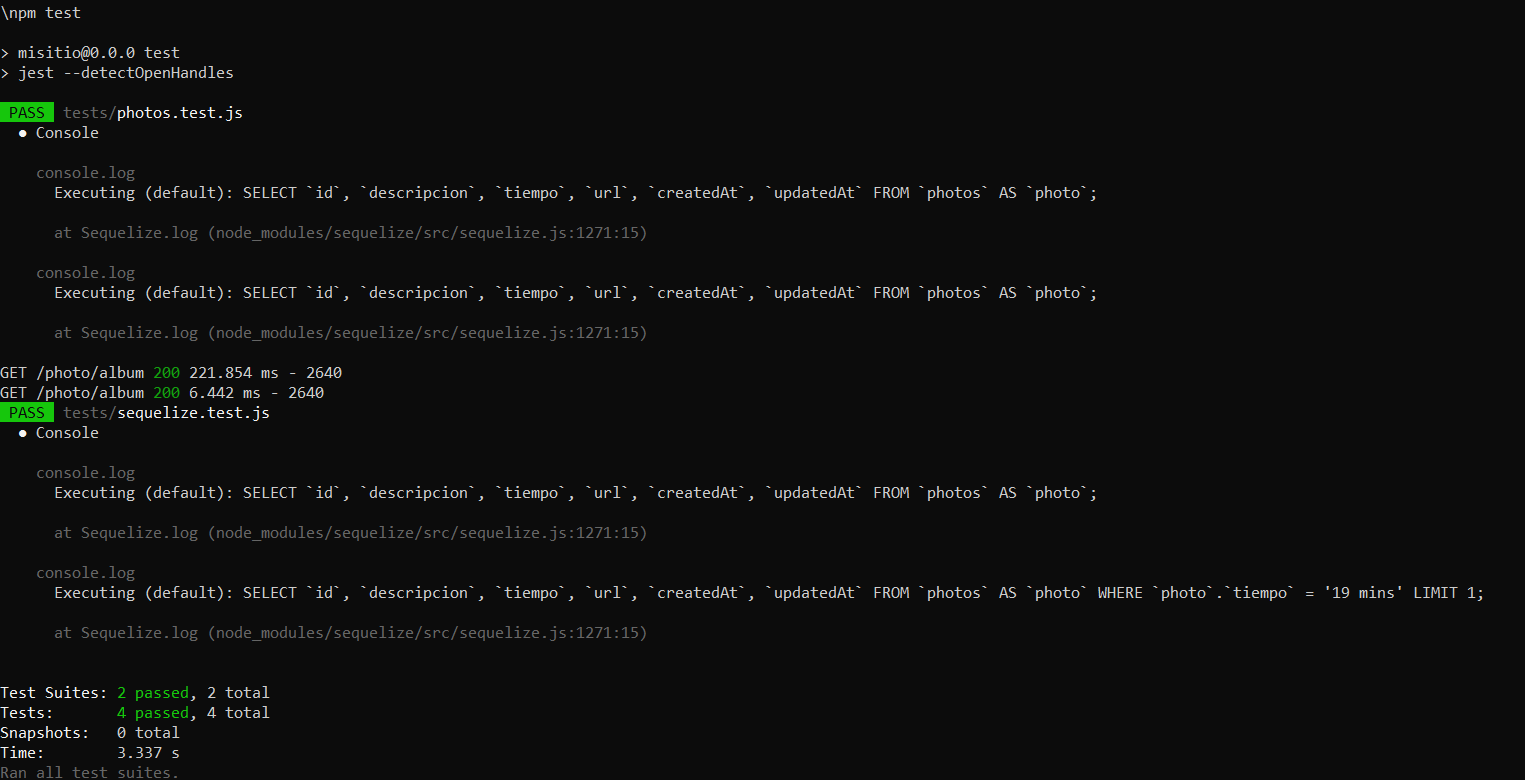
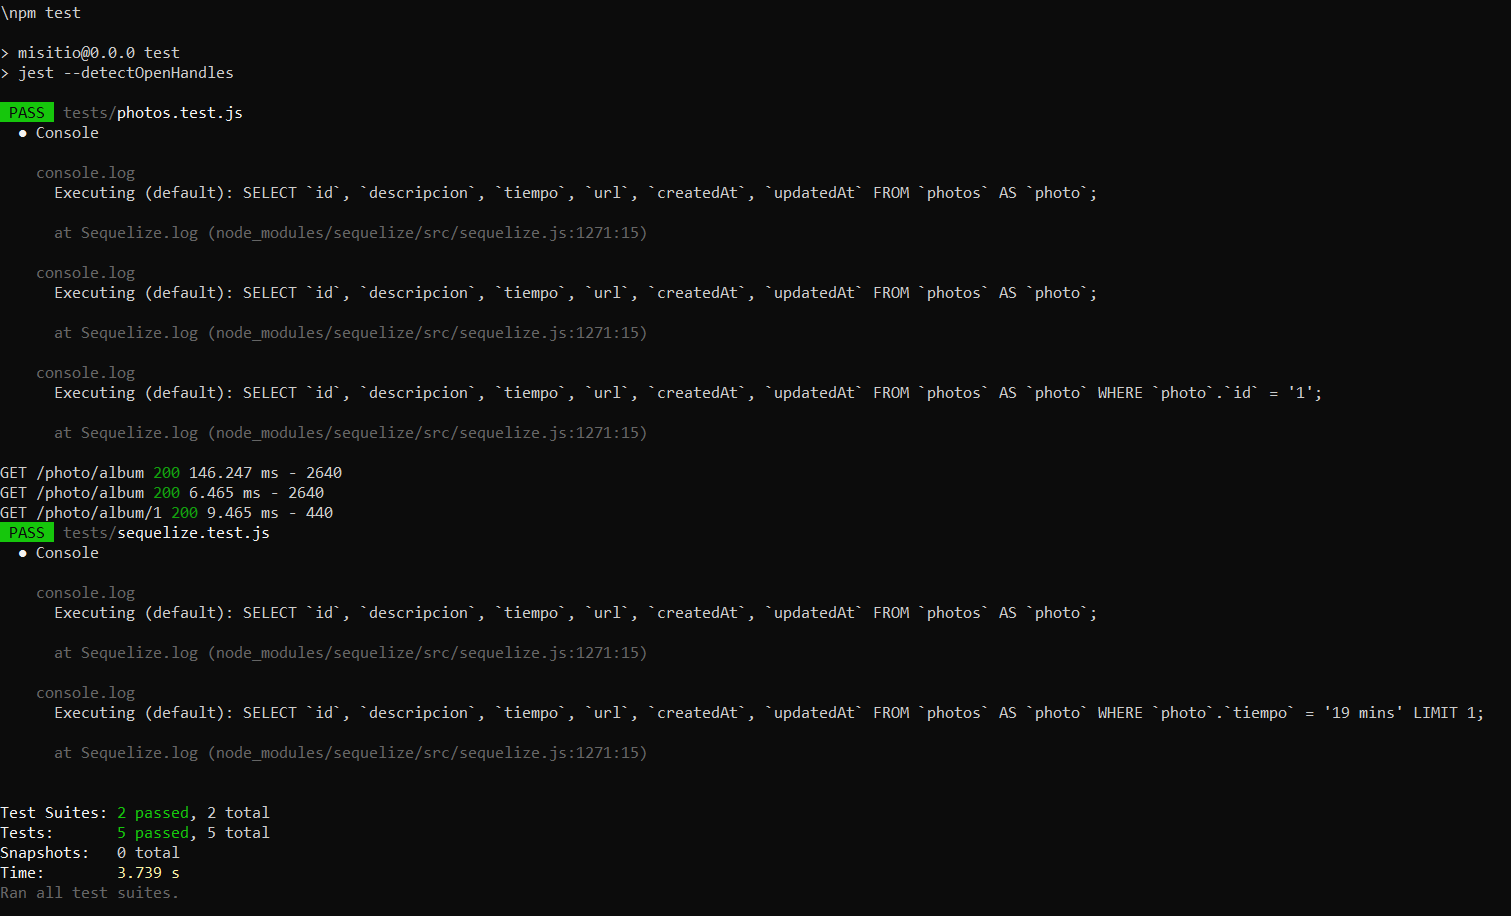
C05/EJ03

diff --git a/Capítulo 05/ejercicio03/tests/photos.test.js b/Capítulo 05/ejercicio03/tests/photos.test.js
@@ -16,4 +16,9 @@ describe('Express Endpoints', () => {
       expect(res.body.length).toEqual(6);
   });
 
+  it('GET /photo/album/1', async () => {
+      const res = await requestWithSupertest.get('/photo/album/1');
+      expect(res.body['tiempo']).toEqual('19 mins');
+  });
+
 });
